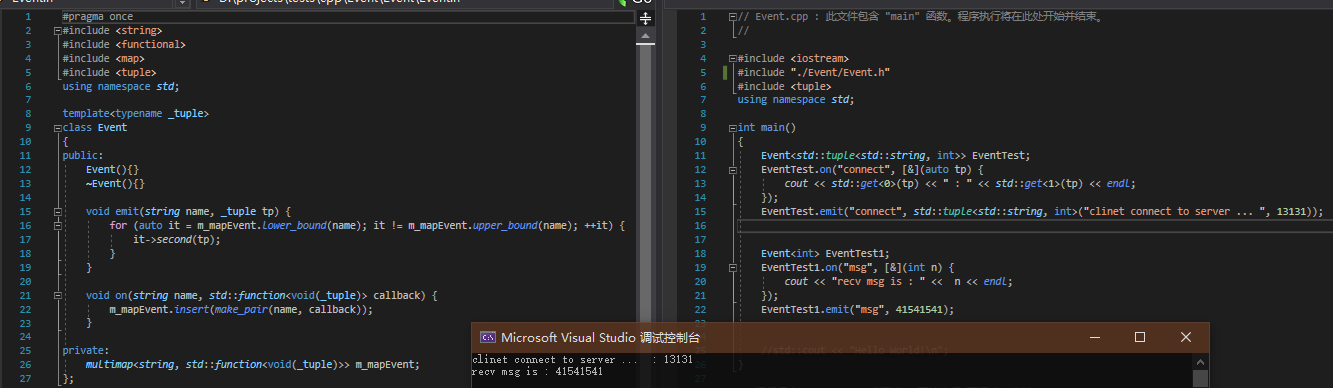
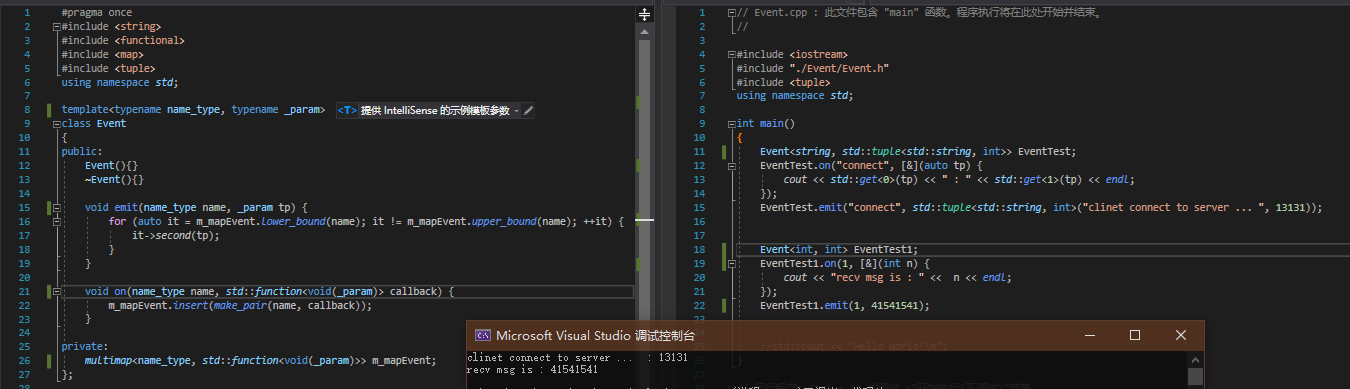
把事件类型也改成了模板

Changed region(s): [[0.0, 0.0, 1.0, 1.0], [0.5229, 0.1237, 0.6767, 0.2784], [0.5844, 0.9897, 0.6459, 1.0]]

diff --git a/Event/Event.h b/Event/Event.h
@@ -5,24 +5,24 @@
 #include <tuple>
 using namespace std;
 
-template<typename _tuple>
+template<typename name_type, typename _param>
 class Event
 {
 public:
 	Event(){}
 	~Event(){}
 
-	void emit(string name, _tuple tp) {
+	void emit(name_type name, _param tp) {
 		for (auto it = m_mapEvent.lower_bound(name); it != m_mapEvent.upper_bound(name); ++it) {
 			it->second(tp);
 		}
 	}
 
-	void on(string name, std::function<void(_tuple)> callback) {
+	void on(name_type name, std::function<void(_param)> callback) {
 		m_mapEvent.insert(make_pair(name, callback));
 	}
 
 private:
-	multimap<string, std::function<void(_tuple)>> m_mapEvent;
+	multimap<name_type, std::function<void(_param)>> m_mapEvent;
 };
 

diff --git a/main.cpp b/main.cpp
@@ -8,18 +8,18 @@ using namespace std;
 
 int main()
 {
-	Event<std::tuple<std::string, int>> EventTest;
+	Event<string, std::tuple<std::string, int>> EventTest;
 	EventTest.on("connect", [&](auto tp) {
 		cout << std::get<0>(tp) << " : " << std::get<1>(tp) << endl;
 	});
 	EventTest.emit("connect", std::tuple<std::string, int>("clinet connect to server ... ", 13131));
 
 
-	Event<int> EventTest1;
-	EventTest1.on("msg", [&](int n) {
+	Event<int, int> EventTest1;
+	EventTest1.on(1, [&](int n) {
 		cout << "recv msg is : " <<  n << endl;
 	});
-	EventTest1.emit("msg", 41541541);
+	EventTest1.emit(1, 41541541);
 
 
 	//std::cout << "Hello World!\n";
